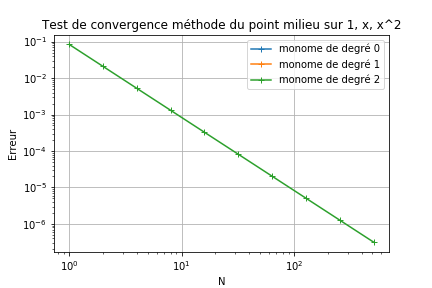
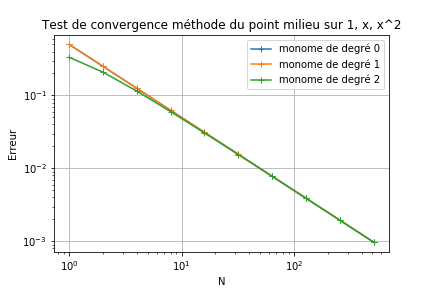
methode trapeze

diff --git a/src/tests.py b/src/tests.py
@@ -36,7 +36,7 @@ for k in np.arange(3):
                                                     # une primitive
     # Boucle sur les découpages
     for i in np.arange(k_max):
-        Q[i] = q.pt_milieu(f.monome,a,b,N[i])
+        Q[i] = q.met_trapezes(f.monome,a,b,N[i])
         E[i] = I-Q[i]
         print ("{:5d} {:14.8g} {:14.8g} {:14.8g}".format(N[i],I,Q[i],E[i]))
     # On peut tracer les courbes d'erreur en fonction de N, en échelles

diff --git a/src/quadratures.py b/src/quadratures.py
@@ -13,3 +13,12 @@ def pt_milieu(f,a,b,n):
     return Q
 
 # Définir ci-dessous les autres méthodes de quadrature
+
+def met_trapezes(f,a,b,n):
+    h=(b-a)/n
+    xm=(a+np.arange(n)*h)
+    Q=(h/2)*(np.sum(f(xm)))
+    for i in range(len(xm)-1):
+        Q=Q+(h/2)*(f(xm[i+1])) #en pratique on s'en fiche car l'intervalle commence à 0
+    return Q                   #mais dans le cas où ce ne serait pas le cas il faudrait faire ça
+
